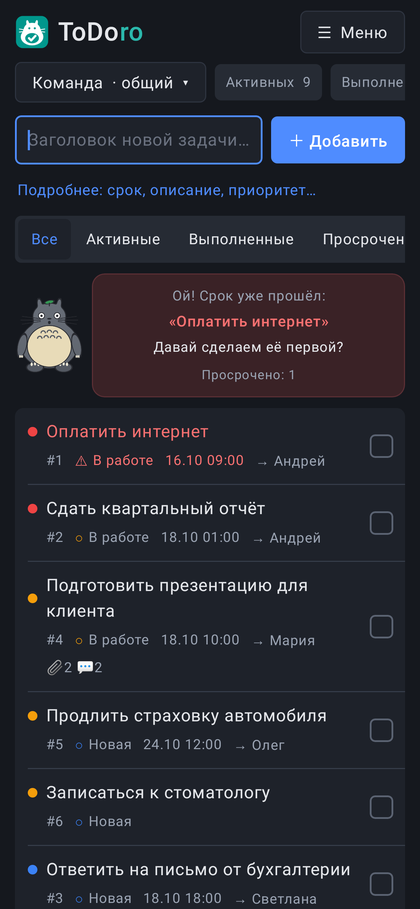
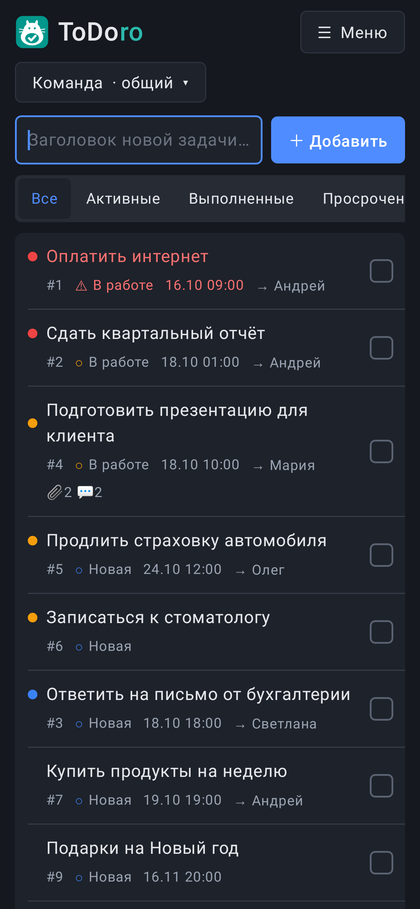
Android 0.5: разгружен главный экран — без счётчиков, ссылки «Подробнее» и Тоторо

diff --git a/android/app/src/main/java/com/machinist/todoro/MainScreen.kt b/android/app/src/main/java/com/machinist/todoro/MainScreen.kt
@@ -199,7 +199,7 @@ fun Logo() {
     }
 }
 
-/** «Личный ▾» и счётчики «Активных / Выполнено / Сделано сегодня». */
+/** «Личный ▾» — выбор списка. */
 @Composable
 fun ListRow(vm: AppViewModel, view: ListView?) {
     val p = P
@@ -228,30 +228,23 @@ fun ListRow(vm: AppViewModel, view: ListView?) {
                 }
             }
         }
-        if (view != null) {
-            val active = view.tasks.count { !it.done }
-            Chip("Активных  $active")
-            Chip("Выполнено  ${view.tasks.size - active}")
-            Chip("✔ Сделано сегодня  ${view.tasks.count { it.doneToday }}", good = true)
-        }
     }
     Spacer(Modifier.height(8.dp))
 }
 
-/** «Заголовок новой задачи…» + «＋ Добавить» — как строка вверху окна. */
+/** «Заголовок новой задачи…» + «＋ Добавить» — как строка вверху окна.
+ *  С пустой строкой «Добавить» открывает полную форму: срок, описание, приоритет. */
 @Composable
 fun QuickAdd(vm: AppViewModel) {
     var text by rememberSaveable { mutableStateOf("") }
     fun add() {
-        if (vm.quickAdd(text)) text = ""
+        if (text.isBlank()) vm.openTask(null)
+        else if (vm.quickAdd(text)) text = ""
     }
-    Row(Modifier.fillMaxWidth().padding(vertical = 4.dp), verticalAlignment = Alignment.CenterVertically) {
+    Row(Modifier.fillMaxWidth().padding(top = 4.dp, bottom = 10.dp), verticalAlignment = Alignment.CenterVertically) {
         Field(text, { text = it }, Modifier.weight(1f), placeholder = "Заголовок новой задачи…", onDone = ::add)
         Spacer(Modifier.width(8.dp))
         FlatButton("＋ Добавить", ::add, look = Look.ACCENT)
-    }
-    Row(Modifier.padding(top = 2.dp, bottom = 6.dp)) {
-        LinkText("Подробнее: срок, описание, приоритет…") { vm.openTask(null) }
     }
 }
 

diff --git a/android/app/src/main/java/com/machinist/todoro/Ui.kt b/android/app/src/main/java/com/machinist/todoro/Ui.kt
@@ -104,15 +104,6 @@ fun <T> Segmented(items: List<Pair<T, String>>, selected: T?, onSelect: (T) -> U
     }
 }
 
-/** Счётчик в шапке: «Активных 9», «✔ Сделано сегодня 0». */
-@Composable
-fun Chip(text: String, good: Boolean = false) {
-    val p = P
-    Text(text, Modifier.clip(Corner).background(if (good) p.chipGoodBg else p.chipBg)
-        .padding(horizontal = 10.dp, vertical = 5.dp),
-        color = if (good) p.goodText else p.muted, fontSize = 13.sp, maxLines = 1)
-}
-
 /** Точка приоритета слева у задачи; у обычной задачи — пустое место того же размера. */
 @Composable
 fun PriorityDot(level: Int, size: Dp = 9.dp) {

diff --git a/android/app/src/main/java/com/machinist/todoro/AppViewModel.kt b/android/app/src/main/java/com/machinist/todoro/AppViewModel.kt
@@ -46,7 +46,7 @@ class AppViewModel(app: Application) : AndroidViewModel(app) {
     var draft by mutableStateOf<Draft?>(null)
     /** Открытая карточка задачи (номер задачи в открытом списке). */
     var cardId by mutableStateOf<Long?>(null)
-    var buddyOn by mutableStateOf(prefs.getBoolean("buddy", true))
+    var buddyOn by mutableStateOf(prefs.getBoolean("buddy", false))
         private set
     var remindersOn by mutableStateOf(Reminders.enabled(app))
         private set

diff --git a/RELEASE_NOTES.md b/RELEASE_NOTES.md
@@ -3,6 +3,14 @@
 Здесь записано, что менялось от версии к версии. Новые записи — сверху.
 Скачать установщик любой версии: https://github.com/machinist-soft/ToDoro/releases
 
+## Не выпущено
+
+### Улучшения
+
+- **Приложение для Android 0.5: главный экран проще.** Убраны счётчики задач, ссылка
+  «Подробнее…» и Тоторо-помощник (его можно включить в «Меню»). Полная форма новой задачи —
+  кнопка «＋ Добавить» при пустой строке.
+
 ## 2.15 — 17.10.2026
 
 ### Новое
